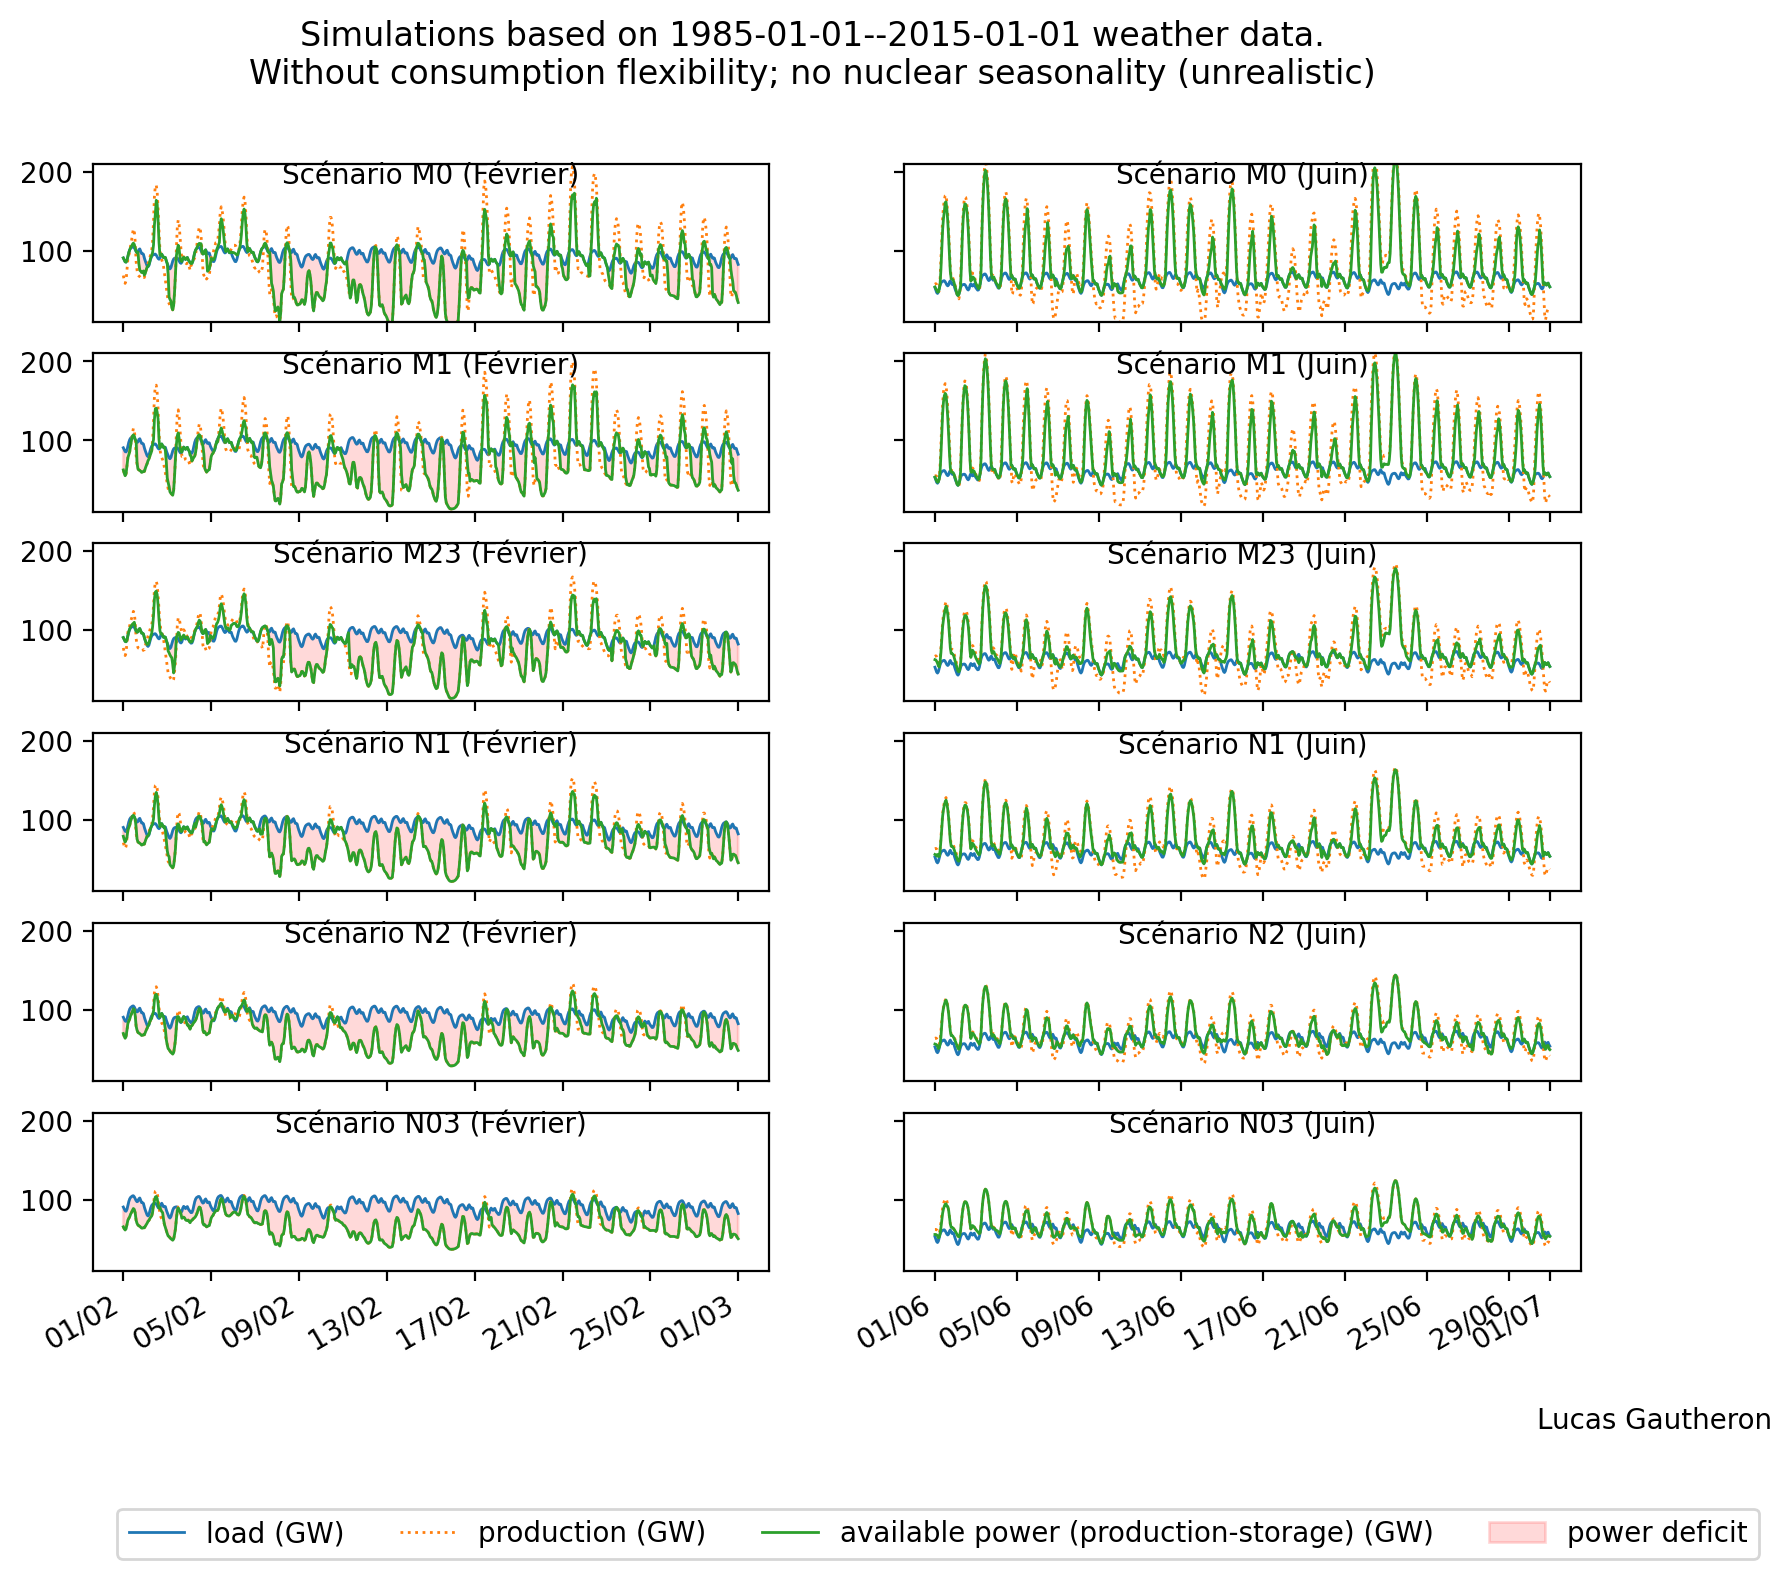
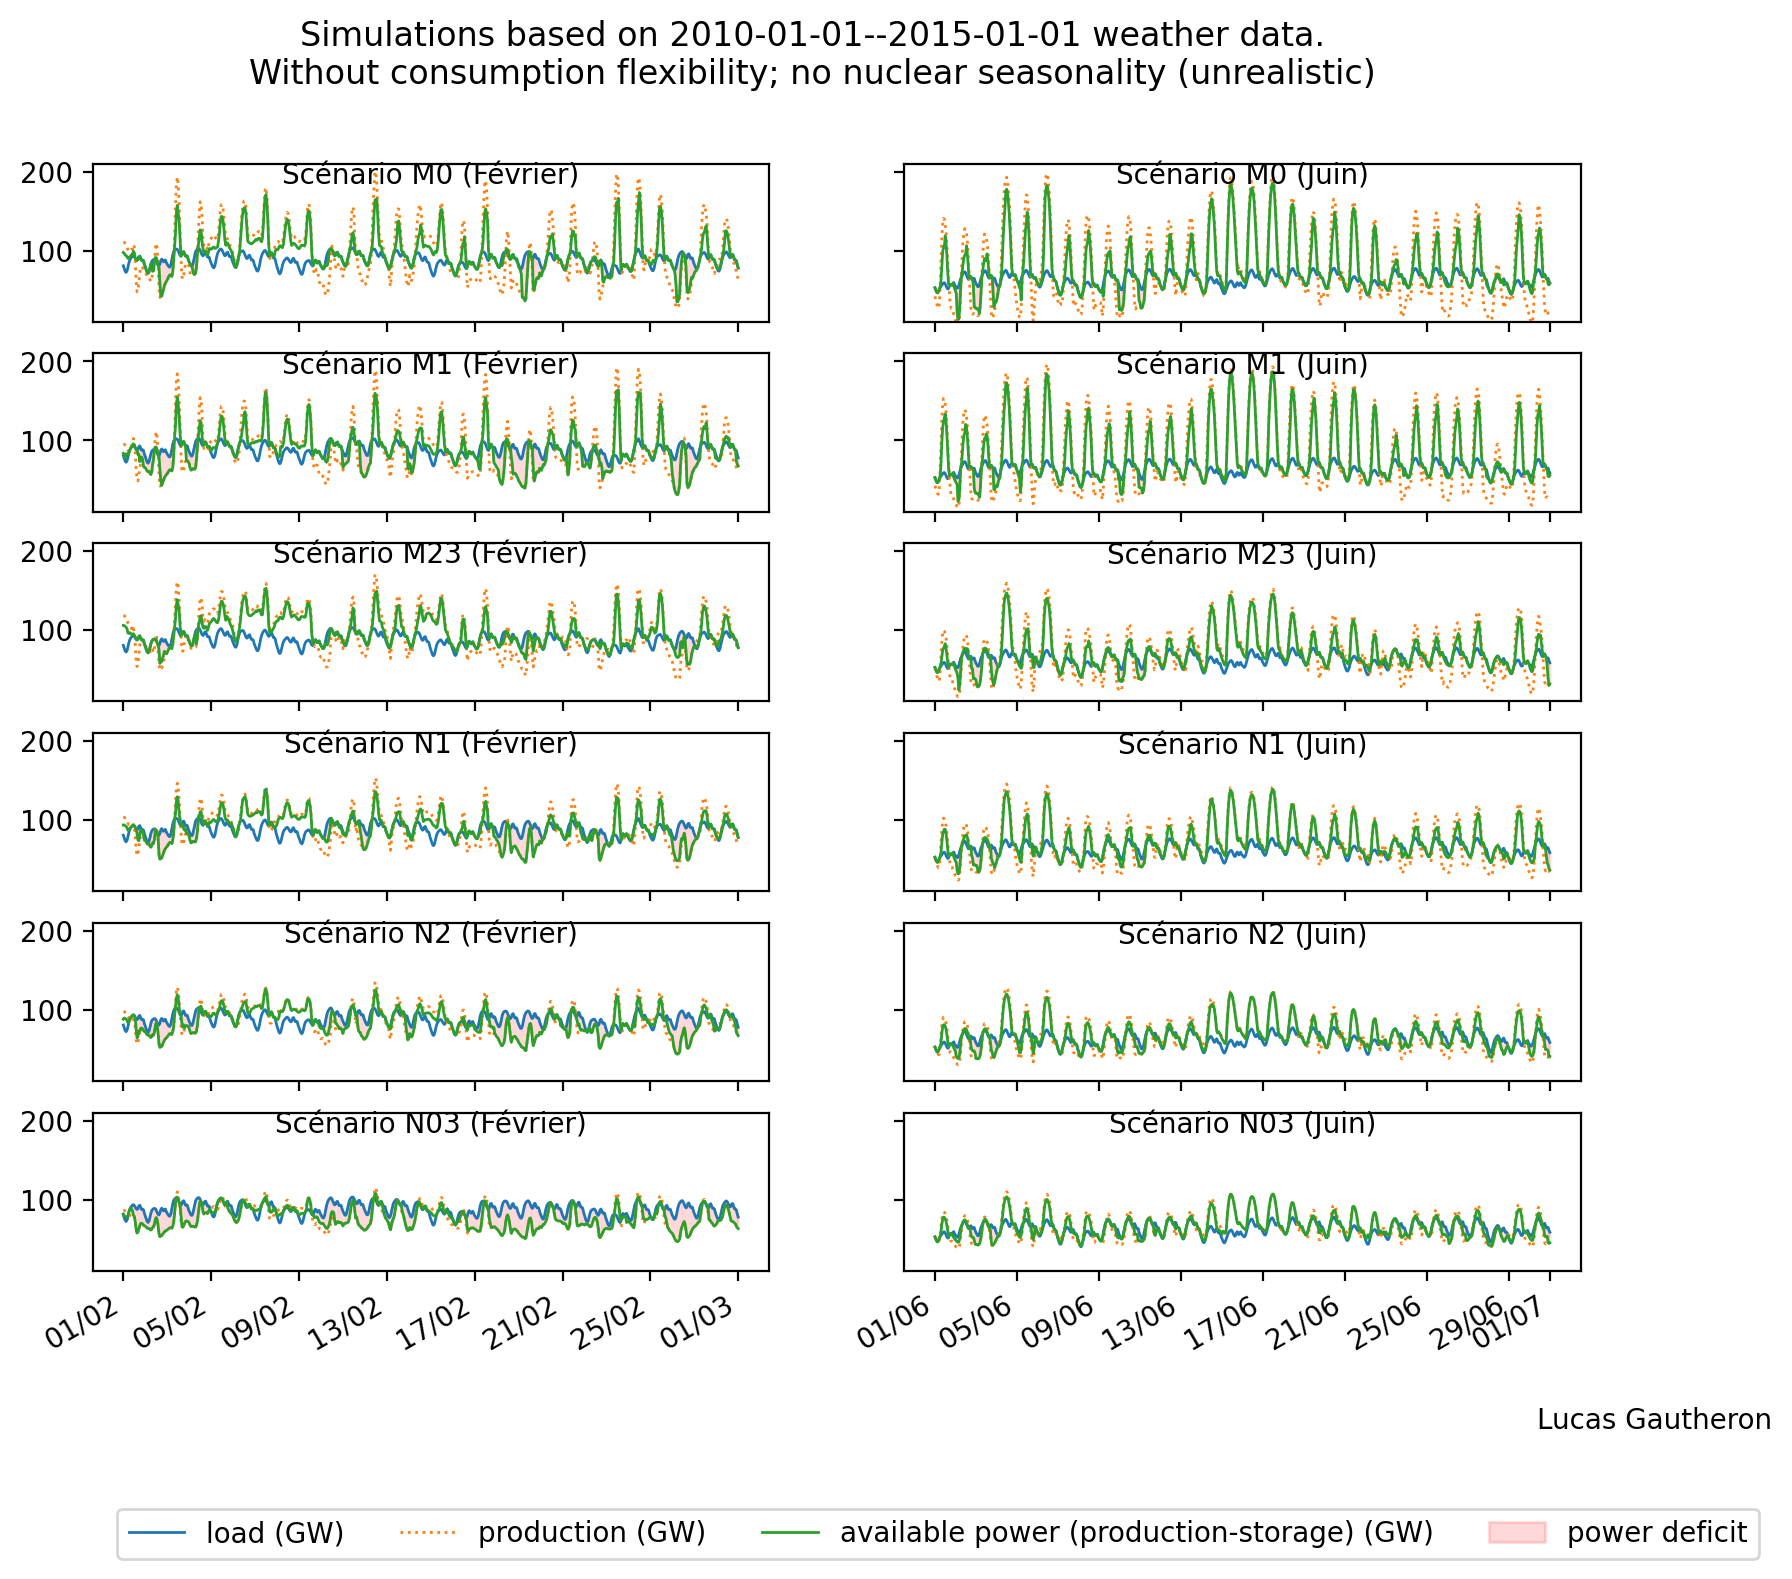
various fixes

diff --git a/mix_simul/consumption.py b/mix_simul/consumption.py
@@ -173,6 +173,7 @@ class ThermoModel(ConsumptionModel):
             fig, ax = plt.subplots(1, 1)
             ax.plot(hourly.index, prediction, label="model", lw=1)
             ax.plot(hourly.index, hourly["conso"], label="observed", lw=1)
+
             plt.legend()
             plt.show()
 
@@ -186,19 +187,16 @@ class ThermoModel(ConsumptionModel):
         base = self.fit_results.params[0] + self.fit_results.params[1]
 
         # then, calculate target - \langle heat+ac consumption\rangle
-        gap = self.yearly_total / (365.25 * 24) - (
+        base_target = self.yearly_total / (365.25 * 24) - (
             hourly["heat_offset"].mean() * self.fit_results.params[-10]
             + hourly["ac_offset"].mean() * self.fit_results.params[-9]
         )
 
         # from which we can derive lambda:
-        lambd = gap / base
+        lambd = base_target / base
 
-        print(self.fit_results.params[:-10])
         # ...and adjust the base load parameters:
         self.fit_results.params[:-10] *= lambd
-        print(self.fit_results.params[:-10])
-
 
 
 class FittedConsumptionModel(ConsumptionModel):
@@ -313,25 +311,29 @@ class ConsumptionFlexibilityModel:
         tau = self.flexibility_time
 
         h = cp.Variable((T, tau + 1))
+        load_matrix = np.fromfunction(
+            lambda t, l: load[np.maximum(t - l, 0).astype(int)], (T, tau + 1)
+        )
 
         constraints = [
             h >= 0,
             h <= 1,
             # bound on the fraction of the demand at any time that can be postponed
             h[:, 0] >= 1 - self.flexibility_power / load,
-            cp.multiply(load, cp.sum(h, axis=1)) - load <= self.flexibility_power,
         ] + [
             # total demand conservation
-            reduce(lambda x, y: x + y, [h[t - l, l] for l in range(tau)]) == 1
+            reduce(lambda x, y: x + y, [h[t - l, l] for l in range(tau + 1)]) == 1
             for t in np.arange(tau, T)
         ]
 
         prob = cp.Problem(
-            cp.Minimize(cp.sum(cp.pos(cp.multiply(load, cp.sum(h, axis=1)) - supply))),
+            cp.Minimize(
+                cp.sum(cp.pos(cp.sum(cp.multiply(load_matrix, h), axis=1) - supply))
+            ),
             constraints,
         )
 
         prob.solve(verbose=True, solver=cp.ECOS, max_iters=300)
 
         hb = np.array(h.value)
-        return load * np.sum(hb, axis=1)
+        return np.sum(np.multiply(load_matrix, hb), axis=1)

diff --git a/mix_simul/scenarios.py b/mix_simul/scenarios.py
@@ -13,7 +13,7 @@ class Scenario:
         sources: dict = {},
         multistorage: dict = {},
         flexibility_power=0,
-        flexibility_time=4,
+        flexibility_time=8,
     ) -> Tuple[np.ndarray, np.ndarray, np.ndarray, np.ndarray, np.ndarray, np.ndarray]:
         """Run a mix scenario.
 
@@ -40,17 +40,15 @@ class Scenario:
 
     def build_consumption_model(self):
         if self.consumption_model_name == "ThermoModel":
-            self.consumption_model = ThermoModel(
-                yearly_total=self.yearly_total, debug=True
-            )
+            mdl = ThermoModel
         elif self.consumption_model_name == "FittedModel":
-            self.consumption_model = FittedConsumptionModel(
-                yearly_total=self.yearly_total
-            )
+            mdl = FittedConsumptionModel
         else:
             raise NotImplementedError(
                 f"consumption model {self.consumption_model_name} not supported"
             )
+        
+        self.consumption_model = mdl(yearly_total=self.yearly_total)
 
     def run(self, times, intermittent_load_factors, consumption_model=None):
         # consumption
@@ -67,14 +65,6 @@ class Scenario:
         )
         power = intermittent_array.power()
 
-        if self.flexibility_power > 0:
-            flexibility_model = ConsumptionFlexibilityModel(
-                self.flexibility_power, self.flexibility_time
-            )
-            load = flexibility_model.run(load, power)
-
-        power_delta = power - load
-
         # adjust power to load with storage
         storage_model = MultiStorageModel(
             np.array(self.multistorage["capacity"])
@@ -84,7 +74,15 @@ class Scenario:
             self.multistorage["efficiency"],
         )
 
-        storage, storage_impact = storage_model.run(power_delta)
+        storage, storage_impact = storage_model.run(power - load)
+        gap = load - power - storage_impact.sum(axis=0)
+
+        if self.flexibility_power > 0:
+            flexibility_model = ConsumptionFlexibilityModel(
+                self.flexibility_power, self.flexibility_time
+            )
+            load = flexibility_model.run(load, power + storage_impact.sum(axis=0))
+
         gap = load - power - storage_impact.sum(axis=0)
 
         # further adjust power to load with dispatchable power sources

diff --git a/run.py b/run.py
@@ -128,8 +128,8 @@ for scenario in scenarios:
     potential["dispatch"] = dp.sum(axis=0)
 
     data = [
-        potential.loc[(slice("2013-02-01 00:00:00", "2013-03-01 00:00:00"), "FR"), :],
-        potential.loc[(slice("2013-06-01 00:00:00", "2013-07-01 00:00:00"), "FR"), :],
+        potential.loc[(slice("2014-02-01 00:00:00", "2014-03-01 00:00:00"), "FR"), :],
+        potential.loc[(slice("2014-06-01 00:00:00", "2014-07-01 00:00:00"), "FR"), :],
     ]
 
     for col in range(2):

diff --git a/scripts/generate_load_factors.py b/scripts/generate_load_factors.py
@@ -1,3 +1,5 @@
+import pandas as pd
+
 wind_data = pd.read_csv("data/ninja_wind_europe_v1.1_current_on-offshore.csv")
 solar_data = pd.read_csv("data/ninja_pv_europe_v1.1_merra2.csv")
 
